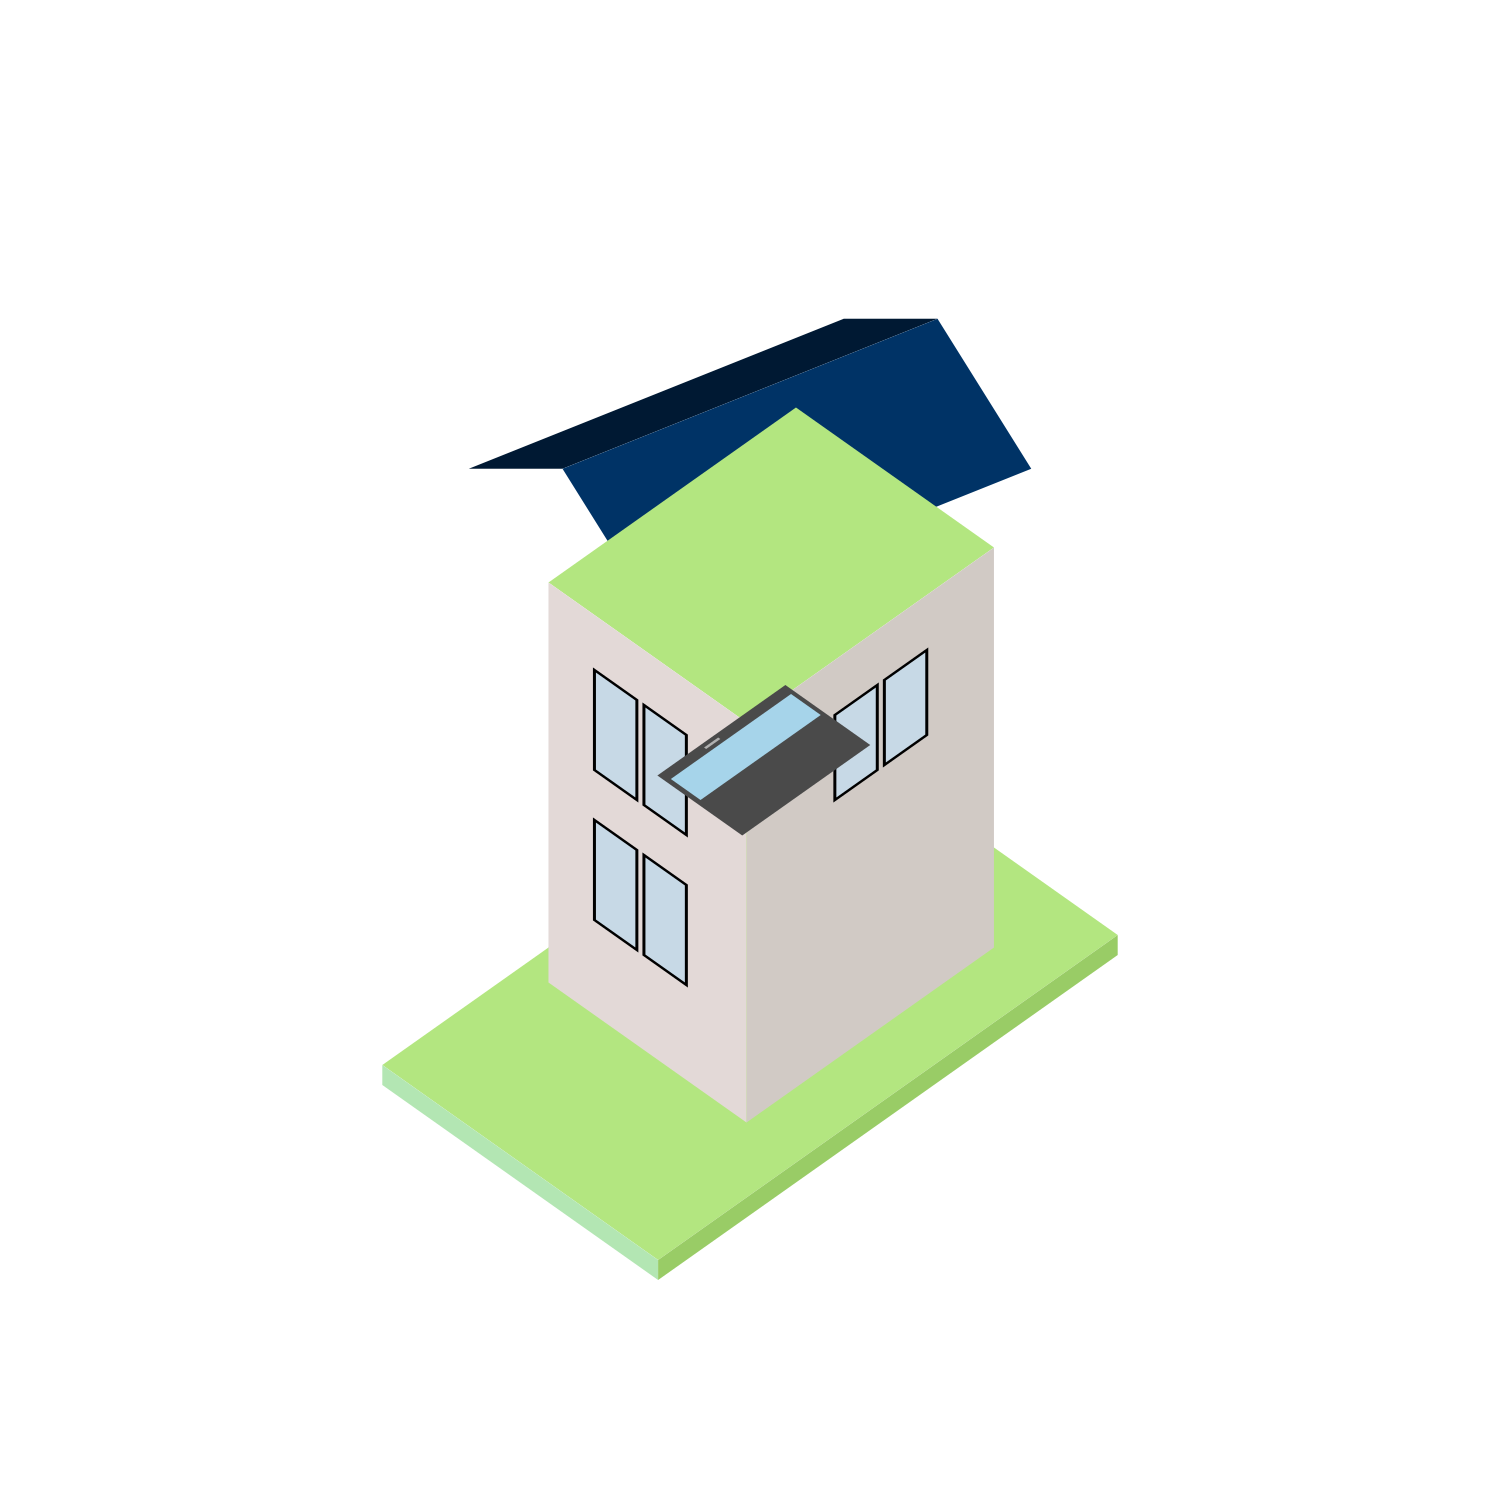
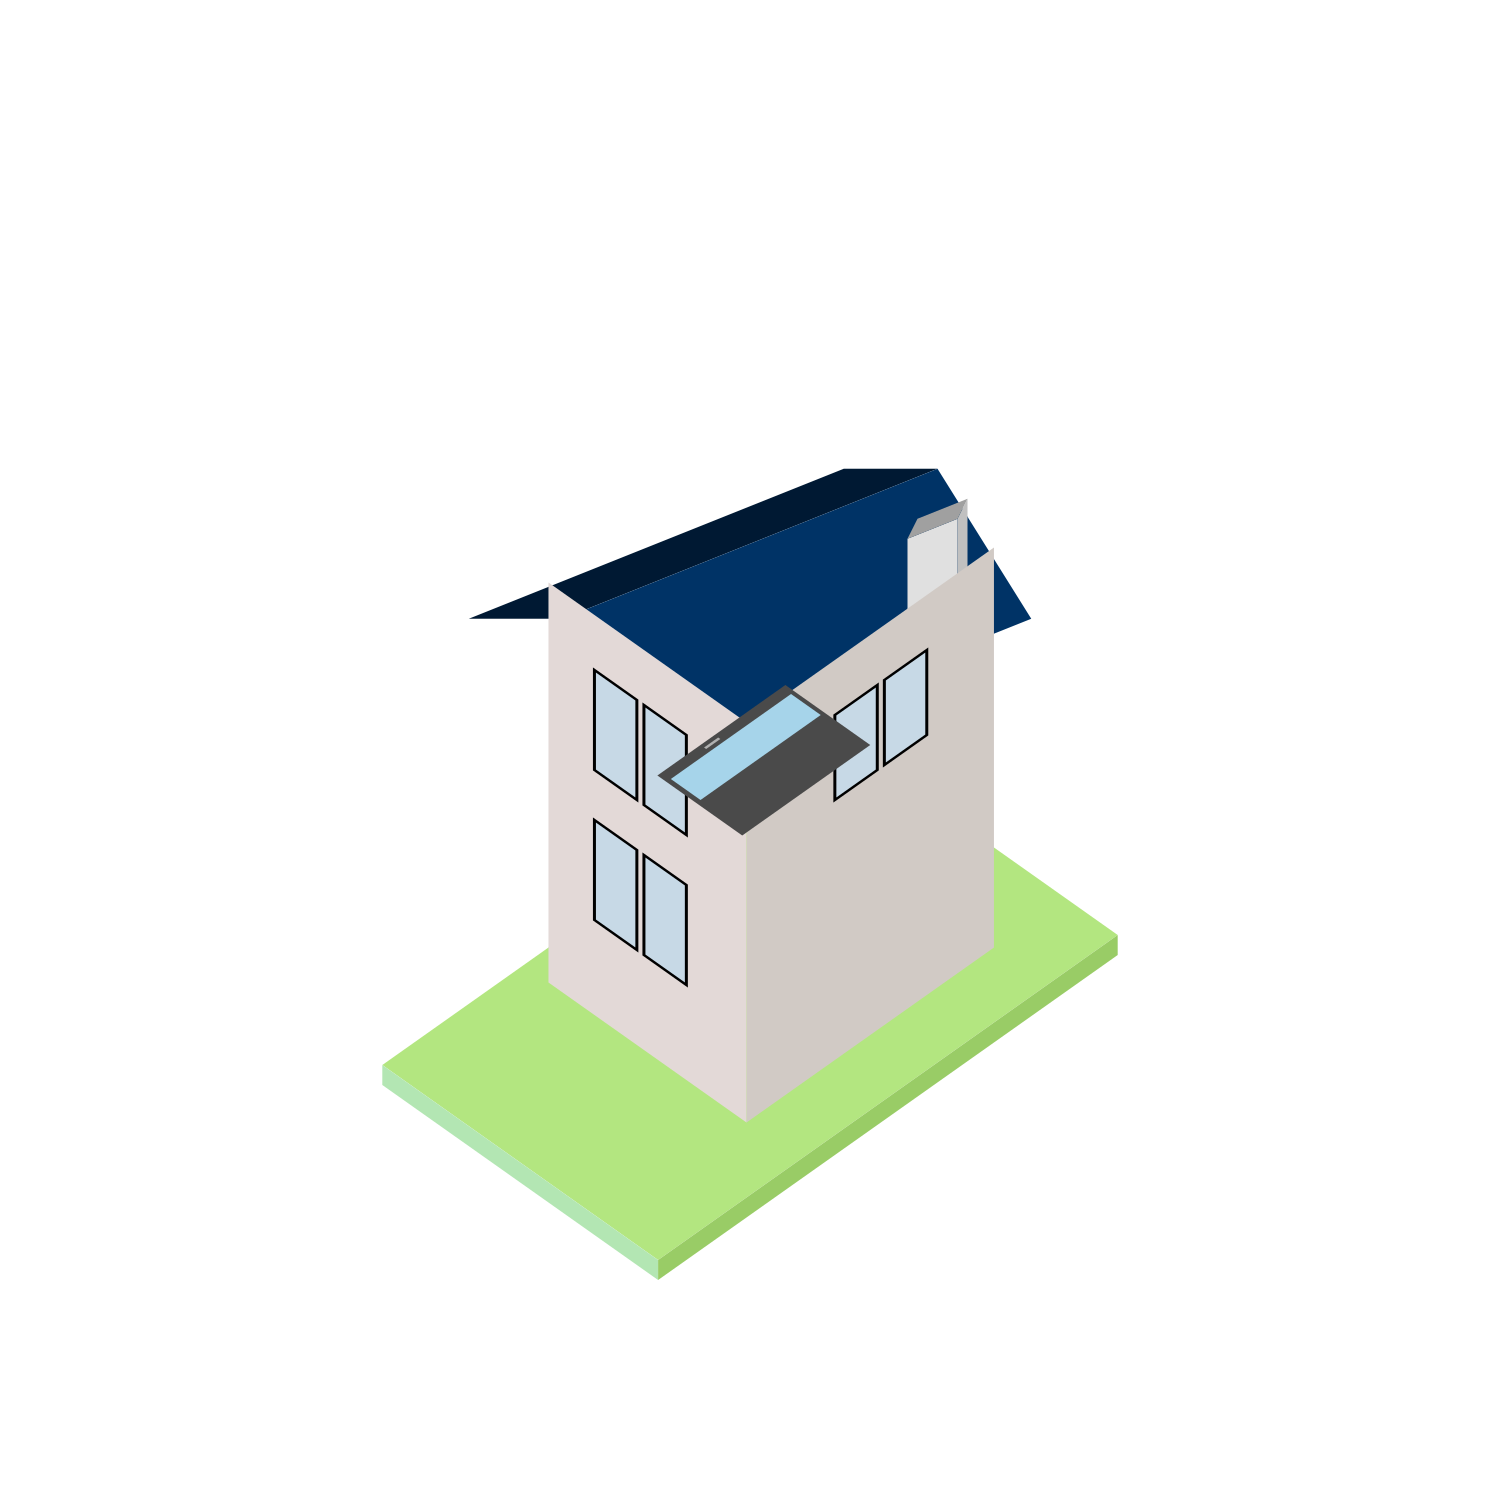
fixed Roof and chimney height

Changed region(s): [[0.3067, 0.2147, 0.7053, 0.4907]]

diff --git a/main.py b/main.py
@@ -1,6 +1,63 @@
 import cairo
 import math
 
+def draw_roof_and_chimney(ctx):
+    ### ROOF ###
+    y_offset = 150  # Push down by 100 pixels
+
+    # Left Half
+    ctx.set_source_rgb(0, 25 / 255, 51 / 255)
+    ctx.move_to(300 * 1.875, (250 * 1.875) + y_offset)  # Start of left half
+    ctx.line_to(250 * 1.875, (250 * 1.875) + y_offset)  # Left side of roof
+    ctx.line_to(450 * 1.875, (170 * 1.875) + y_offset)  # Peak of the roof
+    ctx.line_to(500 * 1.875, (170 * 1.875) + y_offset)  # Right side of roof
+    ctx.close_path()
+    ctx.fill()
+
+    # Right Half
+    ctx.set_source_rgb(0, 51 / 255, 102 / 255)
+    ctx.move_to(500 * 1.875, (170 * 1.875) + y_offset)  # Right side of roof
+    ctx.line_to(550 * 1.875, (250 * 1.875) + y_offset)  # Right base of roof
+    ctx.line_to(350 * 1.875, (330 * 1.875) + y_offset)  # Left base of roof
+    ctx.line_to(300 * 1.875, (250 * 1.875) + y_offset)  # Left side of roof
+    ctx.close_path()
+    ctx.fill()
+
+    ### CHIMNEY ###
+    # Chimney dimensions and position (right side of the roof)
+    chimney_base_x = (500 * 1.875) - 30  # Move the chimney 300px to the left
+    chimney_base_y = (170 * 1.875) + 150 + y_offset  # Move the chimney 300px down
+    chimney_width = 40
+    chimney_height = 80
+    slant = 10  # Slant amount for the chimney to give perspective
+
+    # Front face of the chimney
+    ctx.set_source_rgb(224 / 255, 224 / 255, 224 / 255)  # Light gray for the front face
+    ctx.move_to(chimney_base_x, chimney_base_y)  # Bottom-left of the chimney
+    ctx.line_to(chimney_base_x + chimney_width + slant, chimney_base_y - 20)  # Bottom-right (slanted)
+    ctx.line_to(chimney_base_x + chimney_width + slant, chimney_base_y - chimney_height - 20)  # Top-right
+    ctx.line_to(chimney_base_x, chimney_base_y - chimney_height)  # Top-left
+    ctx.close_path()
+    ctx.fill()
+
+    # Right side of the chimney (slanted version)
+    ctx.set_source_rgb(192 / 255, 192 / 255, 192 / 255)  # Slightly darker gray
+    ctx.move_to(chimney_base_x + chimney_width + slant, chimney_base_y - 20)  # Bottom-right (slanted)
+    ctx.line_to(chimney_base_x + chimney_width + slant + slant, chimney_base_y - 40)  # Bottom-right further out
+    ctx.line_to(chimney_base_x + chimney_width + slant + slant, chimney_base_y - chimney_height - 40)  # Top-right further out
+    ctx.line_to(chimney_base_x + chimney_width + slant, chimney_base_y - chimney_height - 20)  # Top-left
+    ctx.close_path()
+    ctx.fill()
+
+    # Top face of the chimney (slanted version)
+    ctx.set_source_rgb(160 / 255, 160 / 255, 160 / 255)  # Dark gray for the top
+    ctx.move_to(chimney_base_x, chimney_base_y - chimney_height)  # Top-left
+    ctx.line_to(chimney_base_x + chimney_width + slant, chimney_base_y - chimney_height - 20)  # Top-right
+    ctx.line_to(chimney_base_x + chimney_width + slant + slant, chimney_base_y - chimney_height - 40)  # Far-right
+    ctx.line_to(chimney_base_x + slant, chimney_base_y - chimney_height - 20)  # Far-left
+    ctx.close_path()
+    ctx.fill()
+
 def draw_window_on_front_face(ctx, x, y, window_width, window_height):
     window_x_offset = 20  # Horizontal offset within the face
     window_y_offset = 50  # Vertical offset within the face
@@ -105,64 +162,10 @@ def draw_house(width=1500, height=1500):
     ctx.set_source_rgb(1, 1, 1)
     ctx.paint()
 
-    ### ROOF ###
-
-    # Left Half
-    ctx.set_source_rgb(0, 25 / 255, 51 / 255)
-    ctx.move_to(300 * 1.875, 250 * 1.875)  # Start of left half
-    ctx.line_to(250 * 1.875, 250 * 1.875)  # Left side of roof
-    ctx.line_to(450 * 1.875, 170 * 1.875)  # Peak of the roof
-    ctx.line_to(500 * 1.875, 170 * 1.875)  # Right side of roof
-    ctx.close_path()
-    ctx.fill()
-
-    # Right Half
-    ctx.set_source_rgb(0, 51 / 255, 102 / 255)
-    ctx.move_to(500 * 1.875, 170 * 1.875)  # Right side of roof
-    ctx.line_to(550 * 1.875, 250 * 1.875)  # Right base of roof
-    ctx.line_to(350 * 1.875, 330 * 1.875)  # Left base of roof
-    ctx.line_to(300 * 1.875, 250 * 1.875)  # Left side of roof
-    ctx.close_path()
-    ctx.fill()
-
-    ### CHIMNEY ###
-
-    # Chimney dimensions and position (right side of the roof)
-    chimney_base_x = (500 * 1.875) - 30  # Move the chimney 300px to the left
-    chimney_base_y = (170 * 1.875) + 150  # Move the chimney 300px down
-    chimney_width = 40
-    chimney_height = 80
-    slant = 10  # Slant amount for the chimney to give perspective
-
-    # Front face of the chimney
-    ctx.set_source_rgb(224 / 255, 224 / 255, 224 / 255)  # Light gray for the front face
-    ctx.move_to(chimney_base_x, chimney_base_y)  # Bottom-left of the chimney
-    ctx.line_to(chimney_base_x + chimney_width + slant, chimney_base_y - 20)  # Bottom-right (slanted)
-    ctx.line_to(chimney_base_x + chimney_width + slant, chimney_base_y - chimney_height - 20)  # Top-right
-    ctx.line_to(chimney_base_x, chimney_base_y - chimney_height)  # Top-left
-    ctx.close_path()
-    ctx.fill()
-
-    # Right side of the chimney (slanted version)
-    ctx.set_source_rgb(192 / 255, 192 / 255, 192 / 255)  # Slightly darker gray
-    ctx.move_to(chimney_base_x + chimney_width + slant, chimney_base_y - 20)  # Bottom-right (slanted)
-    ctx.line_to(chimney_base_x + chimney_width + slant + slant, chimney_base_y - 40)  # Bottom-right further out
-    ctx.line_to(chimney_base_x + chimney_width + slant + slant, chimney_base_y - chimney_height - 40)  # Top-right further out
-    ctx.line_to(chimney_base_x + chimney_width + slant, chimney_base_y - chimney_height - 20)  # Top-left
-    ctx.close_path()
-    ctx.fill()
-
-    # Top face of the chimney (slanted version)
-    ctx.set_source_rgb(160 / 255, 160 / 255, 160 / 255)  # Dark gray for the top
-    ctx.move_to(chimney_base_x, chimney_base_y - chimney_height)  # Top-left
-    ctx.line_to(chimney_base_x + chimney_width + slant, chimney_base_y - chimney_height - 20)  # Top-right
-    ctx.line_to(chimney_base_x + chimney_width + slant + slant, chimney_base_y - chimney_height - 40)  # Far-right
-    ctx.line_to(chimney_base_x + slant, chimney_base_y - chimney_height - 20)  # Far-left
-    ctx.close_path()
-    ctx.fill()
+    # Call the roof and chimney drawing function
+    draw_roof_and_chimney(ctx)
 
     ## BASE ###
-
     # Move to center of canvas
     ctx.translate(width / 2, height / 1.5)
 
@@ -217,16 +220,7 @@ def draw_house(width=1500, height=1500):
     ctx.save()
 
     # Translate the cuboid
-    ctx.translate(-420,-450)
-
-    # Draw the cuboid
-    ctx.set_source_rgb(0.7, 0.9, 0.5)
-    ctx.move_to(-cuboid_width / 2, -cuboid_depth / 2)
-    ctx.line_to(cuboid_width / 2, -cuboid_depth / 2)
-    ctx.line_to(cuboid_width / 2, cuboid_depth / 2)
-    ctx.line_to(-cuboid_width / 2, cuboid_depth / 2)
-    ctx.close_path()
-    ctx.fill()
+    ctx.translate(-420, -450)
 
     # Add slight darker green for side faces of the cuboid
     ctx.set_source_rgb(0.82, 0.79, 0.77)
